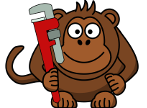
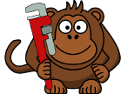
connector images sized to 100x100, restapi url has clickable buttons.

diff --git a/app/assets/stylesheets/connector_projects.css b/app/assets/stylesheets/connector_projects.css
@@ -1,6 +1,6 @@
 .flexslider #slider-image {
-	width: 128px;  
-	height: 128px;
+	width: 100px;  
+	height: 100px;
 }
 
 [class^="logoc_"], [class*="logoc_"] {
@@ -8,54 +8,55 @@
   background-position: 0 0;
   background-repeat: no-repeat;
   display: inline-block;
-  height: 101px;
-  width: 147px;
+  height: 100px;
+  width: 100px;
 }
 
-.logoc_salesforce{
+
+.logoc_twilio{
 	background-position: 0 0;
-	width: 128px;
-	height: 128px;
-}
-
-.logoc_zohocrm{
-	background-position: -135px 0;
-	width: 128px;
-	height: 128px;
-}
-
-.logoc_sugarcrm{
-	background-position: -135px -135px ;
-	width: 128px;
-	height: 128px;
-}
-
-.logoc_dropbox{
-	background-position: 0 -135px ;
-	width: 128px;
-	height: 128px;
+	width: 100px;
+	height: 100px;
 }
 
 .logoc_box{
-	background-position: -270px 0;
-	width: 128px;
-	height: 128px;
+	background-position: -105px 0;
+	width: 100px;
+	height: 100px;
 }
 
-.logoc_twilio{
-	background-position: -271px -135px ;
-	width: 128px;
-	height: 128px;
-}
-
-.logoc_xero{
-	background-position: 0 -270px ;
-	width: 128px;
-	height: 128px;
+.logoc_dropbox{
+	background-position: -215px 0;
+	width: 100px;
+	height: 100px;
 }
 
 .logoc_googleapp{
-	background-position: -135px -270px ;
-	width: 127px;
-	height: 123px;
+	background-position: -327px 0;
+	width: 100px;
+	height: 97px;
+}
+
+.logoc_salesforce{
+	background-position: 0 -110px ;
+	width: 100px;
+	height: 100px;
+}
+
+.logoc_sugarcrm{
+	background-position: -109px -110px ;
+	width: 100px;
+	height: 100px;
+}
+
+.logoc_xero{
+	background-position: -216px -109px ;
+	width: 100px;
+	height: 100px;
+}
+
+.logoc_zohocrm{
+	background-position: -331px -106px ;
+	width: 100px;
+	height: 100px;
 }
